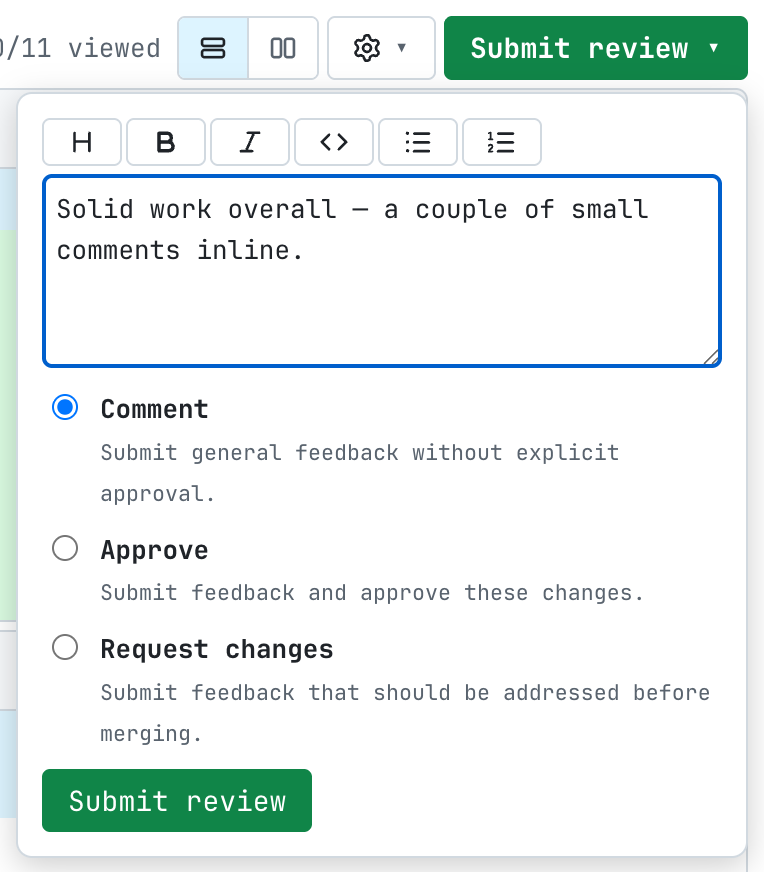
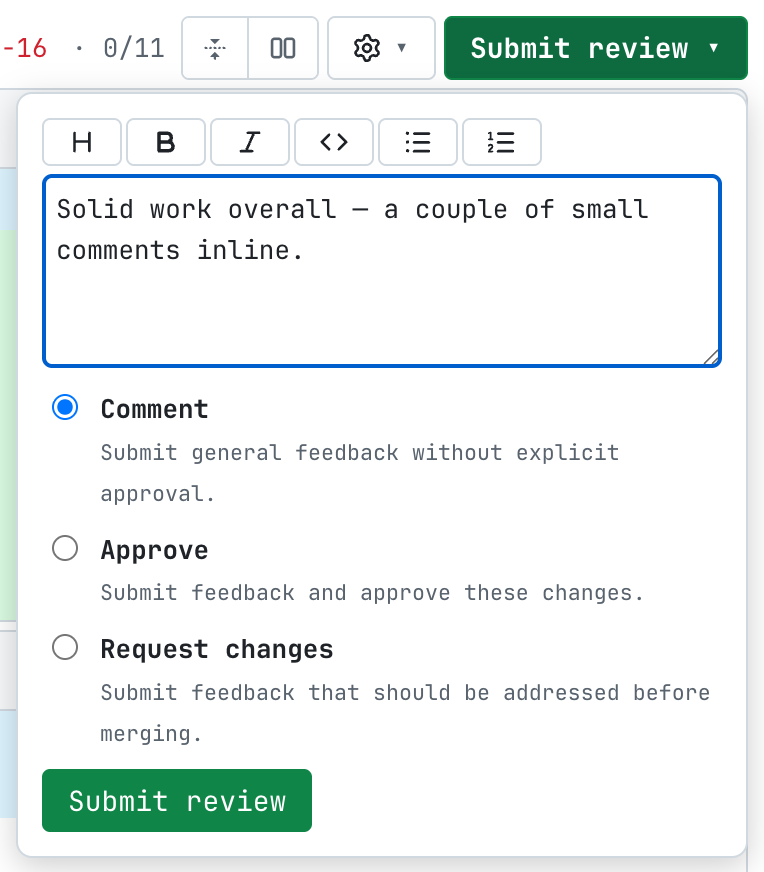
docs: refresh screenshots and README for the compact toolbar
Adds a keyboard-shortcuts frame to the gallery, retitles the toolbar and
unresolved captions, and lays the shortcuts dialog's mouse table out
action-first.

Changed region(s): [[0.572, 0.0, 0.9935, 0.0929], [0.0903, 0.0, 0.3312, 0.0929], [0.0, 0.031, 0.0602, 0.0619]]

diff --git a/assets/viewer.css b/assets/viewer.css
@@ -1861,12 +1861,14 @@ html.pt-no-wd :is(.pt-word-add, .pt-word-del):not(.pt-sug *) {
   background: var(--pt-header-bg);
 }
 
-.pt-keymap { width: 420px; }
+.pt-keymap { width: 480px; }
 .pt-keymap h4 { margin: 12px 0 4px; }
 
 .pt-keys { border-collapse: collapse; width: 100%; }
 .pt-keys td { padding: 4px 8px 4px 0; vertical-align: top; }
 .pt-keys td:first-child { white-space: nowrap; color: var(--pt-muted); }
+.pt-keys-mouse td:first-child { color: var(--pt-fg); }
+.pt-keys-mouse td:last-child { color: var(--pt-muted); padding-left: 12px; }
 
 .pt-keys kbd {
   font-family: var(--pt-mono);

diff --git a/src/components/KeymapDialog.tsx b/src/components/KeymapDialog.tsx
@@ -63,13 +63,13 @@ export function KeymapDialog(props: { onClose: () => void }) {
           </tbody>
         </table>
         <h4>Mouse</h4>
-        <table class="pt-keys">
+        <table class="pt-keys pt-keys-mouse">
           <tbody>
             <For each={MOUSE}>
               {([what, how]) => (
                 <tr>
-                  <td>{how}</td>
                   <td>{what}</td>
+                  <td>{how}</td>
                 </tr>
               )}
             </For>

diff --git a/README.md b/README.md
@@ -40,16 +40,19 @@ Open `https://gitlab.example.com/group/project/-/merge_requests/104.diff`
 
 - Resizable, filterable **file tree** (filter matches paths *and* diff
   content), folder icons, per-file `+N −M`, comment-count badge.
-- **Viewed** checkboxes with an `N/M viewed` progress counter,
-  fold/unfold, auto-collapsed `generated` files (lock files, `*.pb.go`,
-  `vendor/`, minified assets).
+- **Viewed** checkboxes with a progress counter, fold/unfold,
+  auto-collapsed `generated` files (lock files, `*.pb.go`, `vendor/`,
+  minified assets).
 - **Keyboard**: `j`/`k` files, `n`/`p` threads (centered), `v` viewed,
   `x` fold, `s` inline/side-by-side, `e` file tree, `/` focus filter,
   `?` shortcuts overlay — bound to physical keys, so they work on any
   keyboard layout.
-- **Commit filter** dropdown — view the diff of a single commit.
-- Diffstat summary, source → target branch with a copy button, and
-  pipeline/checks status in the toolbar.
+- **Commit filter** — icon until you pick a commit, then a chip with its
+  sha and a reset ×; shows the diff of that commit alone.
+- Compact toolbar: `+N −M · viewed/total` with a one-click reset, an
+  unresolved-threads badge, source → target branch with a copy button,
+  pipeline/checks status, and single buttons that fold every file or
+  flip inline ⇄ side-by-side (each labelled by what it will do).
 - Alt-click a line number → copy a **permalink** to that line's blob.
 - Copy-path and open-at-head buttons in every file header.
 
@@ -63,8 +66,8 @@ Open `https://gitlab.example.com/group/project/-/merge_requests/104.diff`
   with the commented line; existing suggestions render as a red/green
   widget with **Apply suggestion** (GitLab).
 - **Multiline comments**: shift-click a line number to extend the range.
-- **Resolve/unresolve** threads (GitLab) and an **unresolved dropdown**
-  in the toolbar that jumps to each open thread.
+- **Resolve/unresolve** threads (GitLab) and an **unresolved badge** in
+  the toolbar that jumps to each open thread.
 - **Draft reviews** (GitLab): “Add to review” collects pending comments,
   published together by Submit review.
 - **Submit review** panel: summary comment + Comment / Approve (or
@@ -163,8 +166,8 @@ a tag will carry with `scripts/changelog.sh v1.1.0`.
 
 ## Gallery
 
-Toolbar — commit filter, unresolved threads, source → target branch,
-diffstat and viewed progress:
+Toolbar — commit filter, unresolved badge, source → target branch,
+diffstat, viewed progress and the layout toggles:
 
 ![toolbar](docs/screenshots/toolbar.png)
 
@@ -192,7 +195,7 @@ Multiline comment — shift-click extends the range:
 
 ![multiline comment](docs/screenshots/multiline.png)
 
-Unresolved-threads dropdown jumps to each open thread:
+Unresolved badge — the dropdown jumps to each open thread:
 
 ![unresolved threads](docs/screenshots/unresolved.png)
 
@@ -200,9 +203,13 @@ Submit review — summary comment plus Comment / Approve / Request changes:
 
 ![submit review](docs/screenshots/submit-review.png)
 
-Settings menu — fonts, sizes, view options:
+Settings menu — fonts, sizes, view options, shortcuts and tokens:
 
 ![settings](docs/screenshots/settings.png)
+
+Keyboard shortcuts overlay (`?`):
+
+![keyboard shortcuts](docs/screenshots/keymap.png)
 
 Theme gallery with live diff previews:
 
